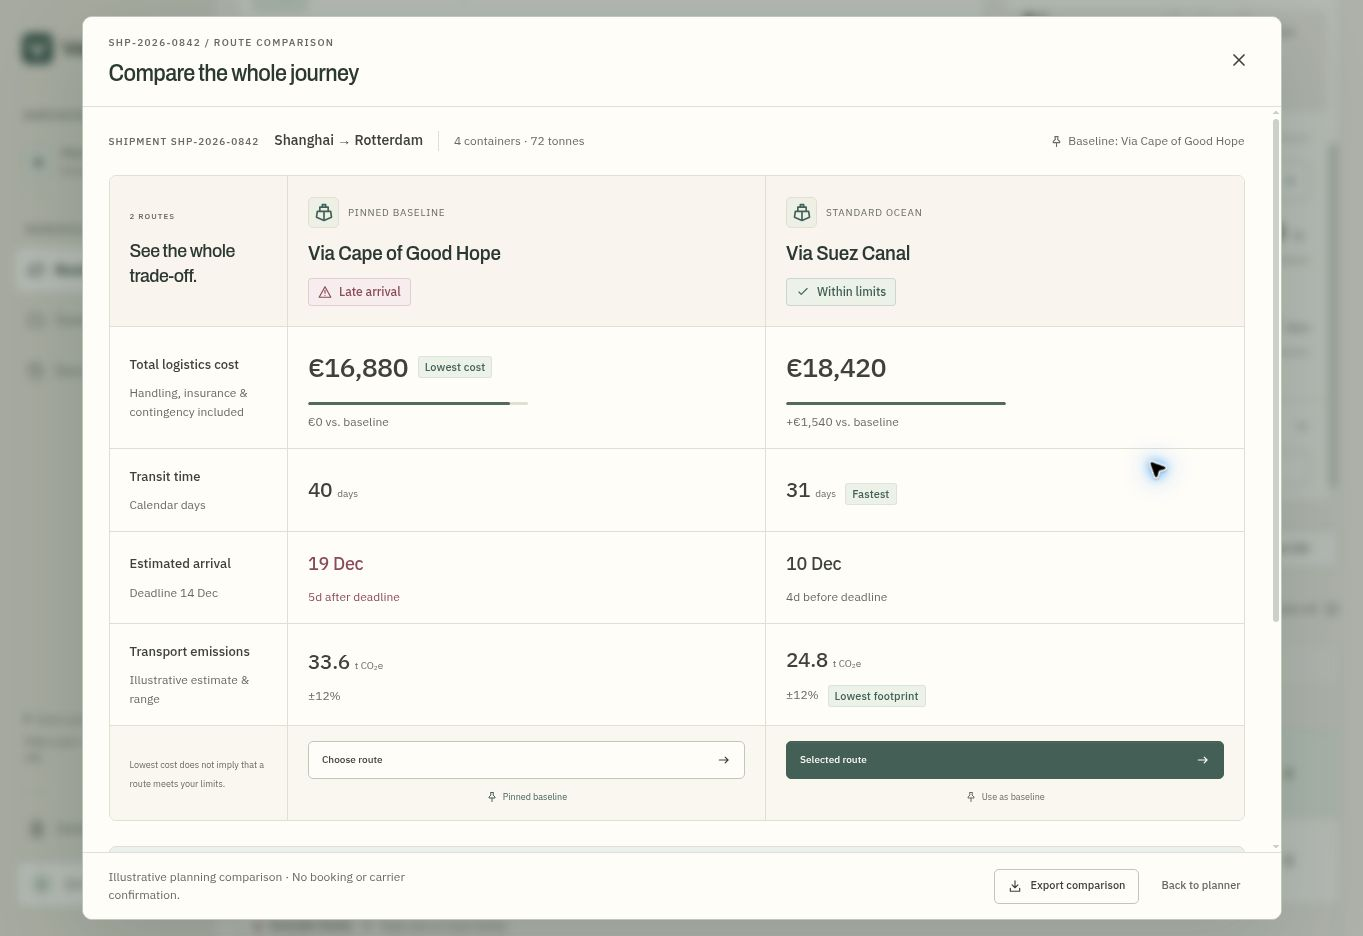
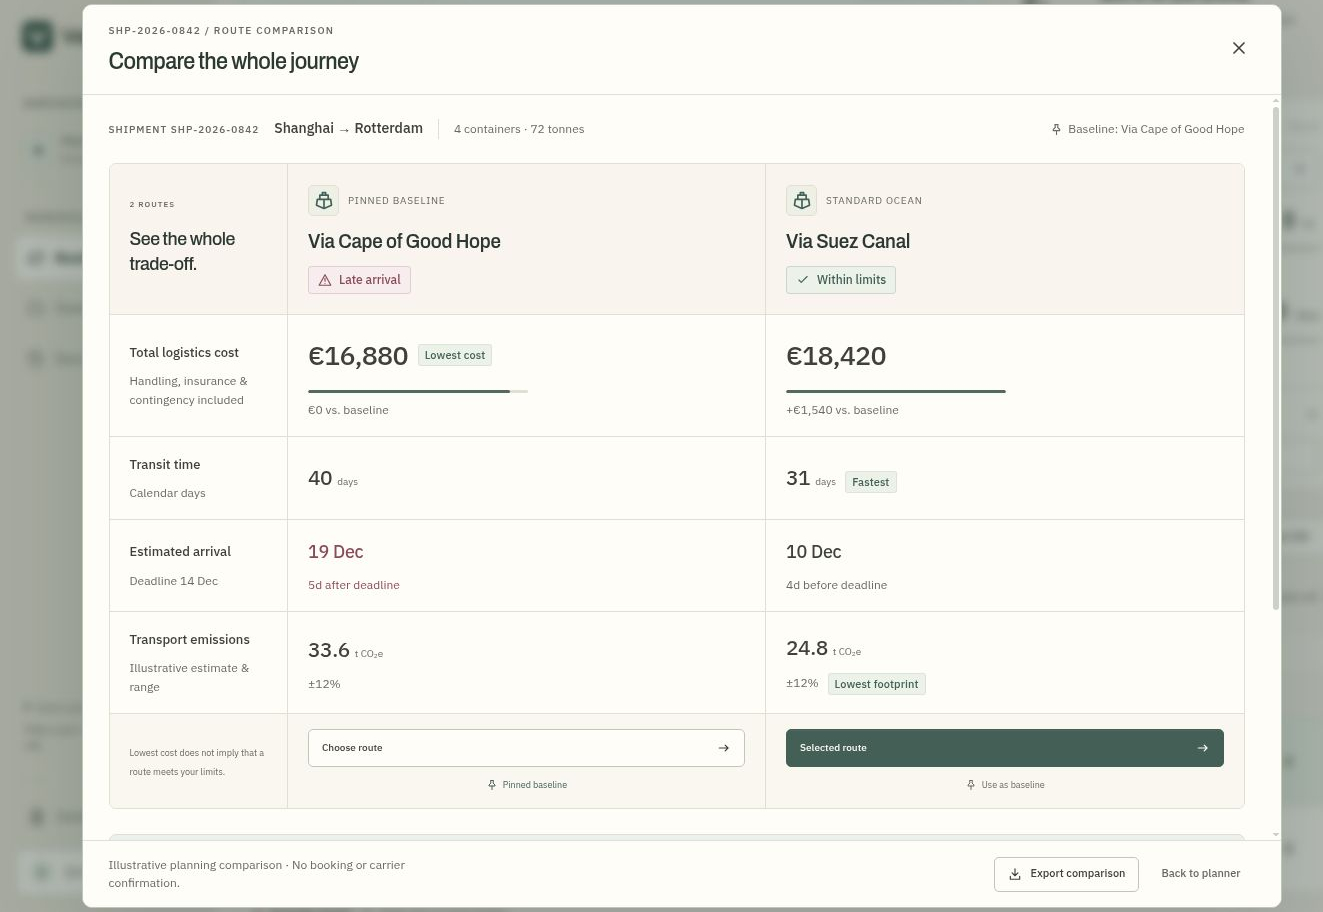
Recapture all six workspace views without cursors or highlights

diff --git a/docs/screenshots/README.md b/docs/screenshots/README.md
@@ -1,0 +1,9 @@
+# Workspace captures
+
+These six images show the running ValencePort prototype with illustrative shipment data. The gallery uses the base assumptions: Suez selected, Cape pinned, a €22,000 budget, 14 December deadline and 40 t emissions limit.
+
+Capture at the native desktop scale after fonts, layout transitions and the route reveal have finished. Keep the pointer and its highlight outside the exported frame, and blur text fields so their caret is absent. Check each final image at full size before reviewing the README gallery.
+
+The workspace and case-study frames are 1353 × 912 px. The comparison uses a 1323 × 912 px frame that retains the complete dialog and footer. No interface region is redrawn or enlarged.
+
+The case study itself renders its map and examples with HTML and SVG. It does not embed these screenshots or a screen-recorded video.
